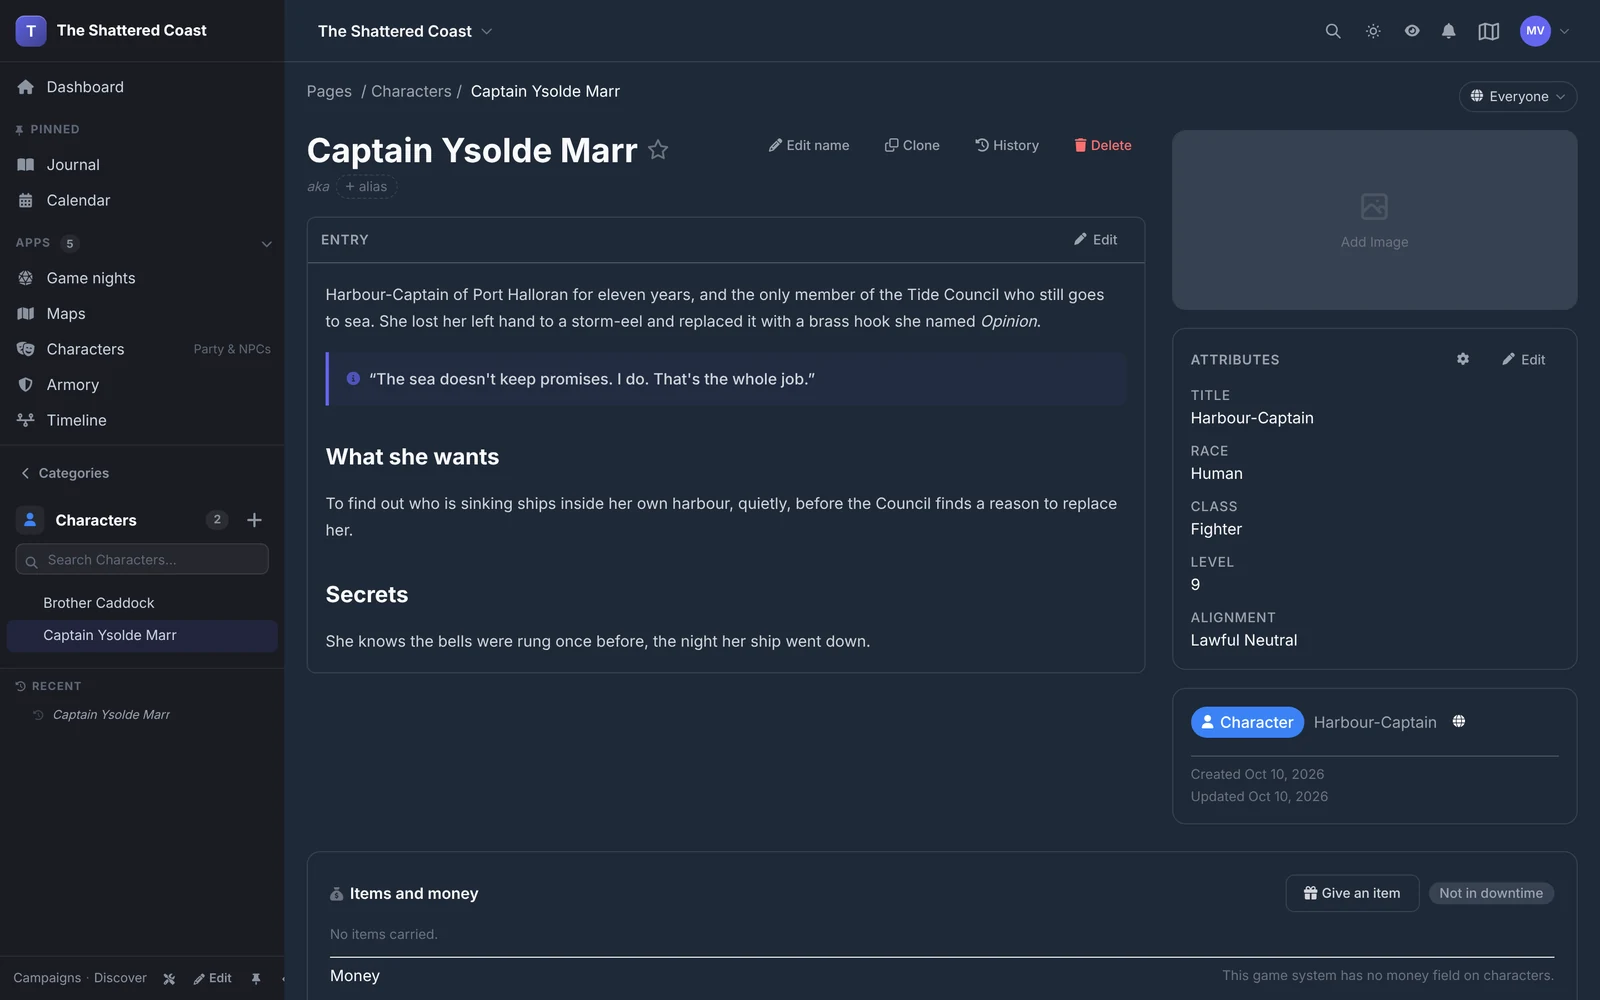
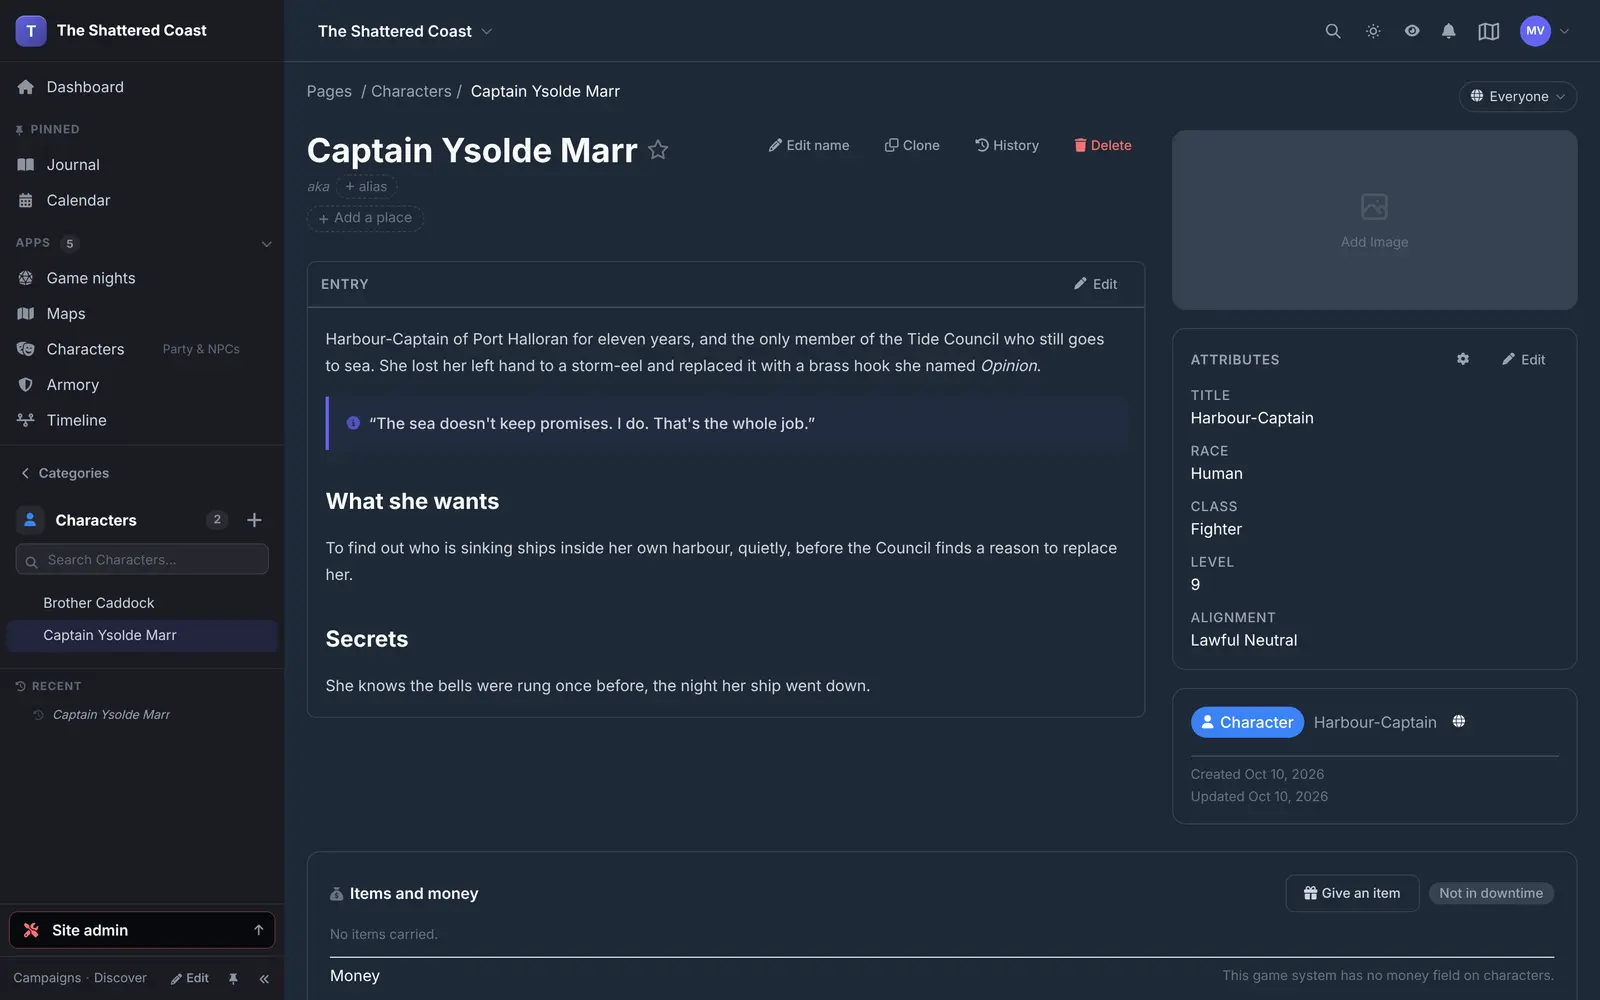
README: catch up with Customize, the Handbook and map shapes
Retake the screenshots on today's code, add the Handbook reader and a
clip of Customize's looks, lay the four main features out as a grid, and
bring the short list up to date (date polls, Adventures, shared notes,
imports, sign-in, build guides).

Claude-Session: https://claude.ai/code/session_014VvjnnmDbbT8YJFoBMiP12

diff --git a/README.md b/README.md
@@ -15,41 +15,56 @@
 
 Chronicle is built for one table and one world at a time. Nothing is public unless you make it public, there is no paywall, and the data lives in your own MariaDB.
 
-## What it does
-
-### Pages for everything in your world
-
-Characters, places, factions, items, quests: each is a page with a rich-text entry, its own fields, and links to the pages it touches. GM secrets stay hidden from players inside the same page.
-
-![A character page with its entry, attributes and category](docs/images/readme/page.webp)
+<table>
+  <tr>
+    <td width="50%" valign="top">
+      <img src="docs/images/readme/page.webp" alt="A character page with its entry, attributes and category"><br>
+      <b>Pages for everything in your world</b><br>
+      Characters, places, factions, items and quests, each with a rich-text entry, its own fields and links to the pages it touches. GM secrets stay hidden inside the same page.
+    </td>
+    <td width="50%" valign="top">
+      <img src="docs/images/readme/map.webp" alt="A hex map of an island, painted in the Realistic style"><br>
+      <b>Maps you paint and annotate</b><br>
+      Upload a picture or paint terrain hex by hex. Pins open pages or other maps, fog hides what the party hasn't explored, and rooms, arrows and speech bubbles turn any map into a diagram.
+    </td>
+  </tr>
+  <tr>
+    <td width="50%" valign="top">
+      <img src="docs/images/readme/handbook.webp" alt="The Draw Steel handbook open at How to Play"><br>
+      <b>A rulebook your players can read</b><br>
+      A game system's rules open as a book you turn the pages of, with a players' screen for lookups mid-fight. Rules terms explain themselves on hover, and you can add house-rule chapters of your own.
+    </td>
+    <td width="50%" valign="top">
+      <img src="docs/images/readme/dashboard.webp" alt="The campaign home with its categories and recently updated pages"><br>
+      <b>A campaign home</b><br>
+      The dashboard, sidebar and categories are yours to arrange. Members join as Owner, Scribe or Player, and "View as player" shows the campaign exactly as they see it.
+    </td>
+  </tr>
+</table>
 
 ### A calendar with a sky
 
-Your own months, weekdays, moons, seasons and eras, or the real-world calendar. Events repeat by rule, weather follows the climate, and the sky over the month shows the world's sun and moons at the hour it is.
+Your own months, weekdays, moons, seasons and eras, or the real-world calendar. Events repeat by rule, weather follows the climate, pages can keep a version for each era, and the sky over the month shows the sun and moons at the hour it is.
 
 ![Scrubbing through a day of the sky preview, from midnight to midnight](docs/images/readme/sky.gif)
 
-### Hex maps you paint
+### Make it look like your world
 
-Upload a map picture or paint terrain hex by hex. Pins link to pages, fog of war hides what the party hasn't explored, and a trip planner reads distances off the hexes.
+Customize keeps the campaign's look, categories and home pages in one place. Start from one of eight whole looks, then change colours, type, buttons, the header and the sidebar. Everything waits in a draft until you save it, so players never see a half-finished change.
 
-![A hex map of an island, painted in the Realistic style](docs/images/readme/map.webp)
-
-### A campaign home
-
-The dashboard, sidebar and categories are yours to arrange. Members join as Owner, Scribe or Player, and "View as player" shows the campaign exactly as they see it.
-
-![The campaign dashboard with its categories and recent pages](docs/images/readme/dashboard.webp)
+![Clicking through the looks in Customize, with the example site changing to match](docs/images/readme/looks.gif)
 
 ### And the rest
 
-- **Timeline**: a zoomable timeline of events, grouped into lanes.
+- **Game nights**: plan sessions on the calendar, run a date poll, see who's free, and collect RSVPs. The dashboard's Coming up card shows what's next.
+- **DM Screen**: the party, the world's date and weather, conditions, NPC reveals, waiting shop and stash requests, and an Adventures tab for the DM team's own pages.
 - **Armory, shops and stashes**: item galleries, a walk-in shop room players buy from, and shared party hoards with GM-approved moves.
-- **DM Screen**: the party, the world's date and weather, conditions and NPC reveals on one screen.
-- **Game nights**: schedule sessions, collect RSVPs and see who's free.
-- **Notes**: private and shared notes on any page, with version history; every page keeps its history and deleted pages wait in Trash.
+- **Notes**: notes on any page, private or shared with the GM or chosen players, with version history. Every page keeps its history, and deleted pages wait in Trash.
+- **Timeline**: a zoomable timeline of events, grouped into lanes.
+- **Bring your world in**: import an Obsidian vault or a Notion or Trilium export, or hand the campaign to an AI tool as markdown and review its edits before they land.
 - **Foundry VTT**: the [Chronicle Sync module](https://github.com/keyxmakerx/Chronicle-Foundry-Module) keeps journals, characters, maps, shops and the calendar in step both ways.
-- **Game systems**: rules content such as D&D 5e and Draw Steel installs from Admin > Packages.
+- **Game systems**: [Draw Steel](https://github.com/keyxmakerx/Chronicle-Draw-Steel) and [D&D 5e](https://github.com/keyxmakerx/Chronicle-DnD-5.5e) install from Admin > Packages.
+- **Sign-in**: two-factor codes, one outside OpenID Connect provider, and guest codes that let someone join one campaign with just a name.
 - **REST API**: per-campaign keys for pages, maps, calendar, media and sync. See [`docs/api/openapi.yaml`](docs/api/openapi.yaml).
 
 ## Quick start
@@ -108,9 +123,11 @@ Chronicle is a Go server (Echo, Templ, HTMX) with MariaDB and Redis. Features li
 | Maps and timeline | [Leaflet](https://leafletjs.com/), [D3](https://d3js.org/) |
 | Data | MariaDB 10.11, Redis 7 |
 
+To build your own game system, widget, content pack or API app, start at [`docs/build/`](docs/build/README.md).
+
 ## Contributing
 
-Chronicle is pre-alpha. Bug reports and ideas are welcome as [issues](https://github.com/keyxmakerx/Chronicle/issues).
+Chronicle is pre-alpha. Bug reports and ideas are welcome as [issues](https://github.com/keyxmakerx/Chronicle/issues). Setup, tests and pull request expectations are in [CONTRIBUTING.md](CONTRIBUTING.md).
 
 We studied [World Anvil](https://www.worldanvil.com/), [Kanka](https://kanka.io/), [LegendKeeper](https://www.legendkeeper.com/) and [Obsidian](https://obsidian.md/) while building it; Chronicle's design and code are its own.
 
